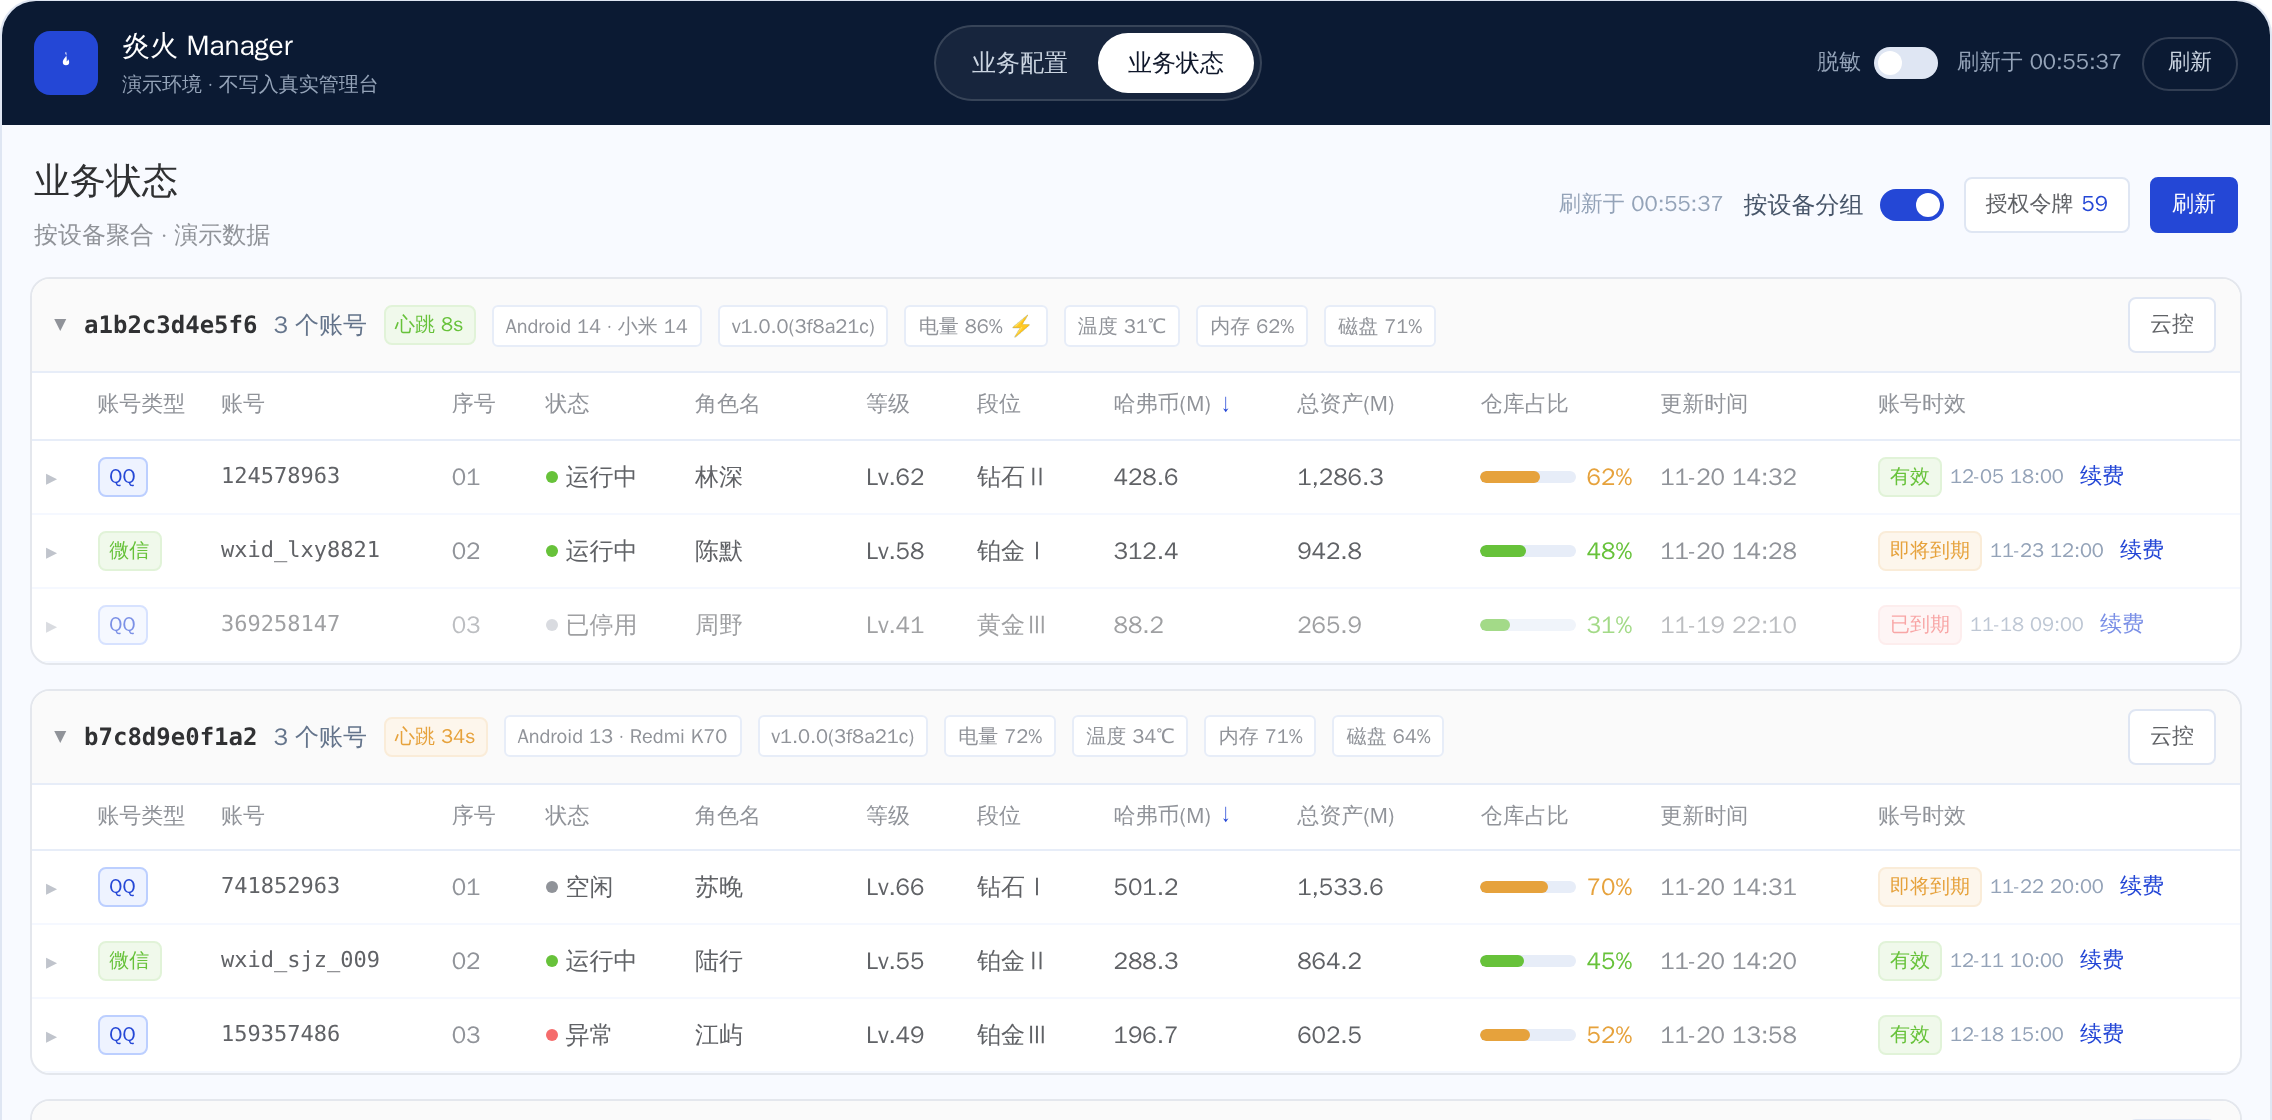
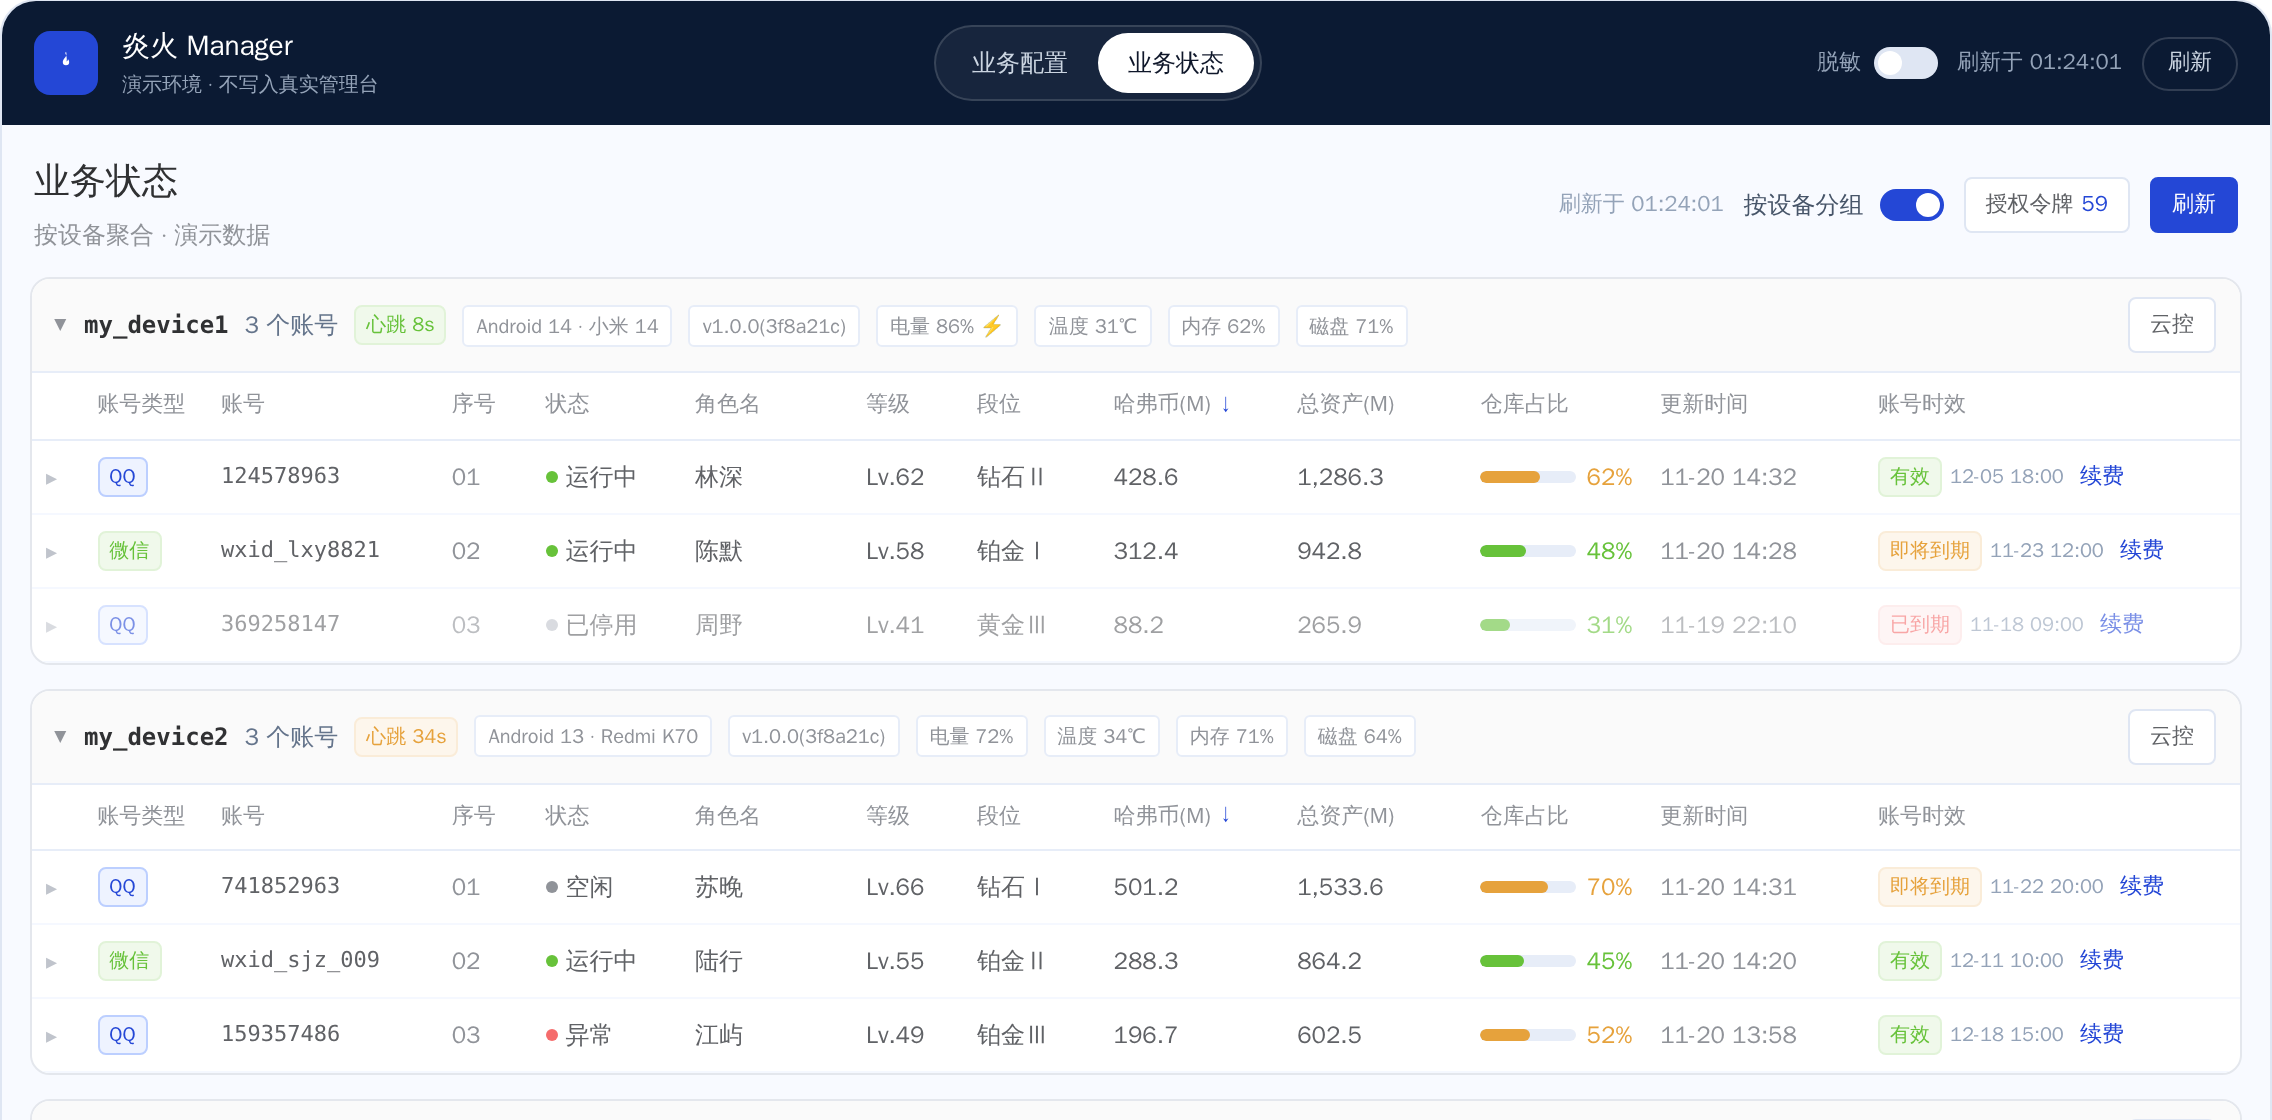
demo(console): 设备标识改为 my_device1-5，同步业务状态预览

diff --git a/web/src/pages/ConsolePage.vue b/web/src/pages/ConsolePage.vue
@@ -828,7 +828,7 @@ function makeAccount(base: Omit<Account, 'modules' | 'produce'>, moduleKeys: Mod
 
 const devices = reactive<Device[]>([
   {
-    id: 'd1', key: 'a1b2c3d4e5f6', name: '门店A · 主机01', group: '门店 A', enabled: true, online: true, heartbeatSec: 8, approval: 'approved',
+    id: 'd1', key: 'my_device1', name: '门店A · 主机01', group: '门店 A', enabled: true, online: true, heartbeatSec: 8, approval: 'approved',
     meta: { os: 'Android 14', model: '小米 14', version: 'v1.0.0(3f8a21c)', battery: 86, charging: true, temp: 31, memory: 62, disk: 71 },
     accounts: [
       makeAccount({ id: 'a1', deviceId: 'd1', type: 'QQ', account: '124578963', seq: 1, enabled: true, status: '运行中', charName: '林深', level: 62, rank: '钻石Ⅱ', havoc: 428.6, assets: 1286.3, ratio: 62, updated: '11-20 14:32', license: '有效', expire: '2026-12-05 18:00' }, ['profile', 'produce', 'sell', 'warehouse']),
@@ -837,7 +837,7 @@ const devices = reactive<Device[]>([
     ],
   },
   {
-    id: 'd2', key: 'b7c8d9e0f1a2', name: '门店A · 主机02', group: '门店 A', enabled: true, online: true, heartbeatSec: 34, approval: 'approved',
+    id: 'd2', key: 'my_device2', name: '门店A · 主机02', group: '门店 A', enabled: true, online: true, heartbeatSec: 34, approval: 'approved',
     meta: { os: 'Android 13', model: 'Redmi K70', version: 'v1.0.0(3f8a21c)', battery: 72, charging: false, temp: 34, memory: 71, disk: 64 },
     accounts: [
       makeAccount({ id: 'b1', deviceId: 'd2', type: 'QQ', account: '741852963', seq: 1, enabled: true, status: '空闲', charName: '苏晚', level: 66, rank: '钻石Ⅰ', havoc: 501.2, assets: 1533.6, ratio: 70, updated: '11-20 14:31', license: '即将到期', expire: '2026-11-22 20:00' }, ['profile', 'produce', 'sell', 'warehouse']),
@@ -846,12 +846,12 @@ const devices = reactive<Device[]>([
     ],
   },
   {
-    id: 'd3', key: 'c3d4e5f6a7b8', name: '门店B · 主机03', group: '门店 B', enabled: true, online: false, heartbeatSec: 999, approval: 'pending',
+    id: 'd3', key: 'my_device3', name: '门店B · 主机03', group: '门店 B', enabled: true, online: false, heartbeatSec: 999, approval: 'pending',
     meta: { os: 'Android 14', model: '一加 12', version: '待接入', battery: 0, charging: false, temp: 0, memory: 0, disk: 0 },
     accounts: [],
   },
   {
-    id: 'd4', key: 'd4e5f6a7b8c9', name: '门店B · 主机04', group: '门店 B', enabled: true, online: true, heartbeatSec: 12, approval: 'approved',
+    id: 'd4', key: 'my_device4', name: '门店B · 主机04', group: '门店 B', enabled: true, online: true, heartbeatSec: 12, approval: 'approved',
     meta: { os: 'Android 14', model: '小米 14 Pro', version: 'v1.0.0(9b2ce71)', battery: 94, charging: true, temp: 29, memory: 54, disk: 58 },
     accounts: [
       makeAccount({ id: 'c1', deviceId: 'd4', type: 'QQ', account: '852741963', seq: 1, enabled: true, status: '运行中', charName: '顾北', level: 60, rank: '钻石Ⅲ', havoc: 402.1, assets: 1198.4, ratio: 58, updated: '11-20 14:33', license: '有效', expire: '2026-12-02 09:00' }, ['profile', 'produce', 'sell', 'warehouse']),
@@ -860,7 +860,7 @@ const devices = reactive<Device[]>([
     ],
   },
   {
-    id: 'd5', key: 'e5f6a7b8c9d0', name: '测试组 · 主机05', group: '测试组', enabled: true, online: false, heartbeatSec: 128, approval: 'approved',
+    id: 'd5', key: 'my_device5', name: '测试组 · 主机05', group: '测试组', enabled: true, online: false, heartbeatSec: 128, approval: 'approved',
     meta: { os: 'Android 13', model: '真我 GT5', version: 'v1.0.0(3f8a21c)', battery: 41, charging: false, temp: 36, memory: 78, disk: 83 },
     accounts: [
       makeAccount({ id: 'e1', deviceId: 'd5', type: 'QQ', account: '321654987', seq: 1, enabled: true, status: '运行中', charName: '许星河', level: 64, rank: '钻石Ⅱ', havoc: 455.8, assets: 1362.9, ratio: 66, updated: '11-20 14:05', license: '有效', expire: '2026-12-15 12:00' }, ['profile', 'produce', 'sell', 'warehouse']),
